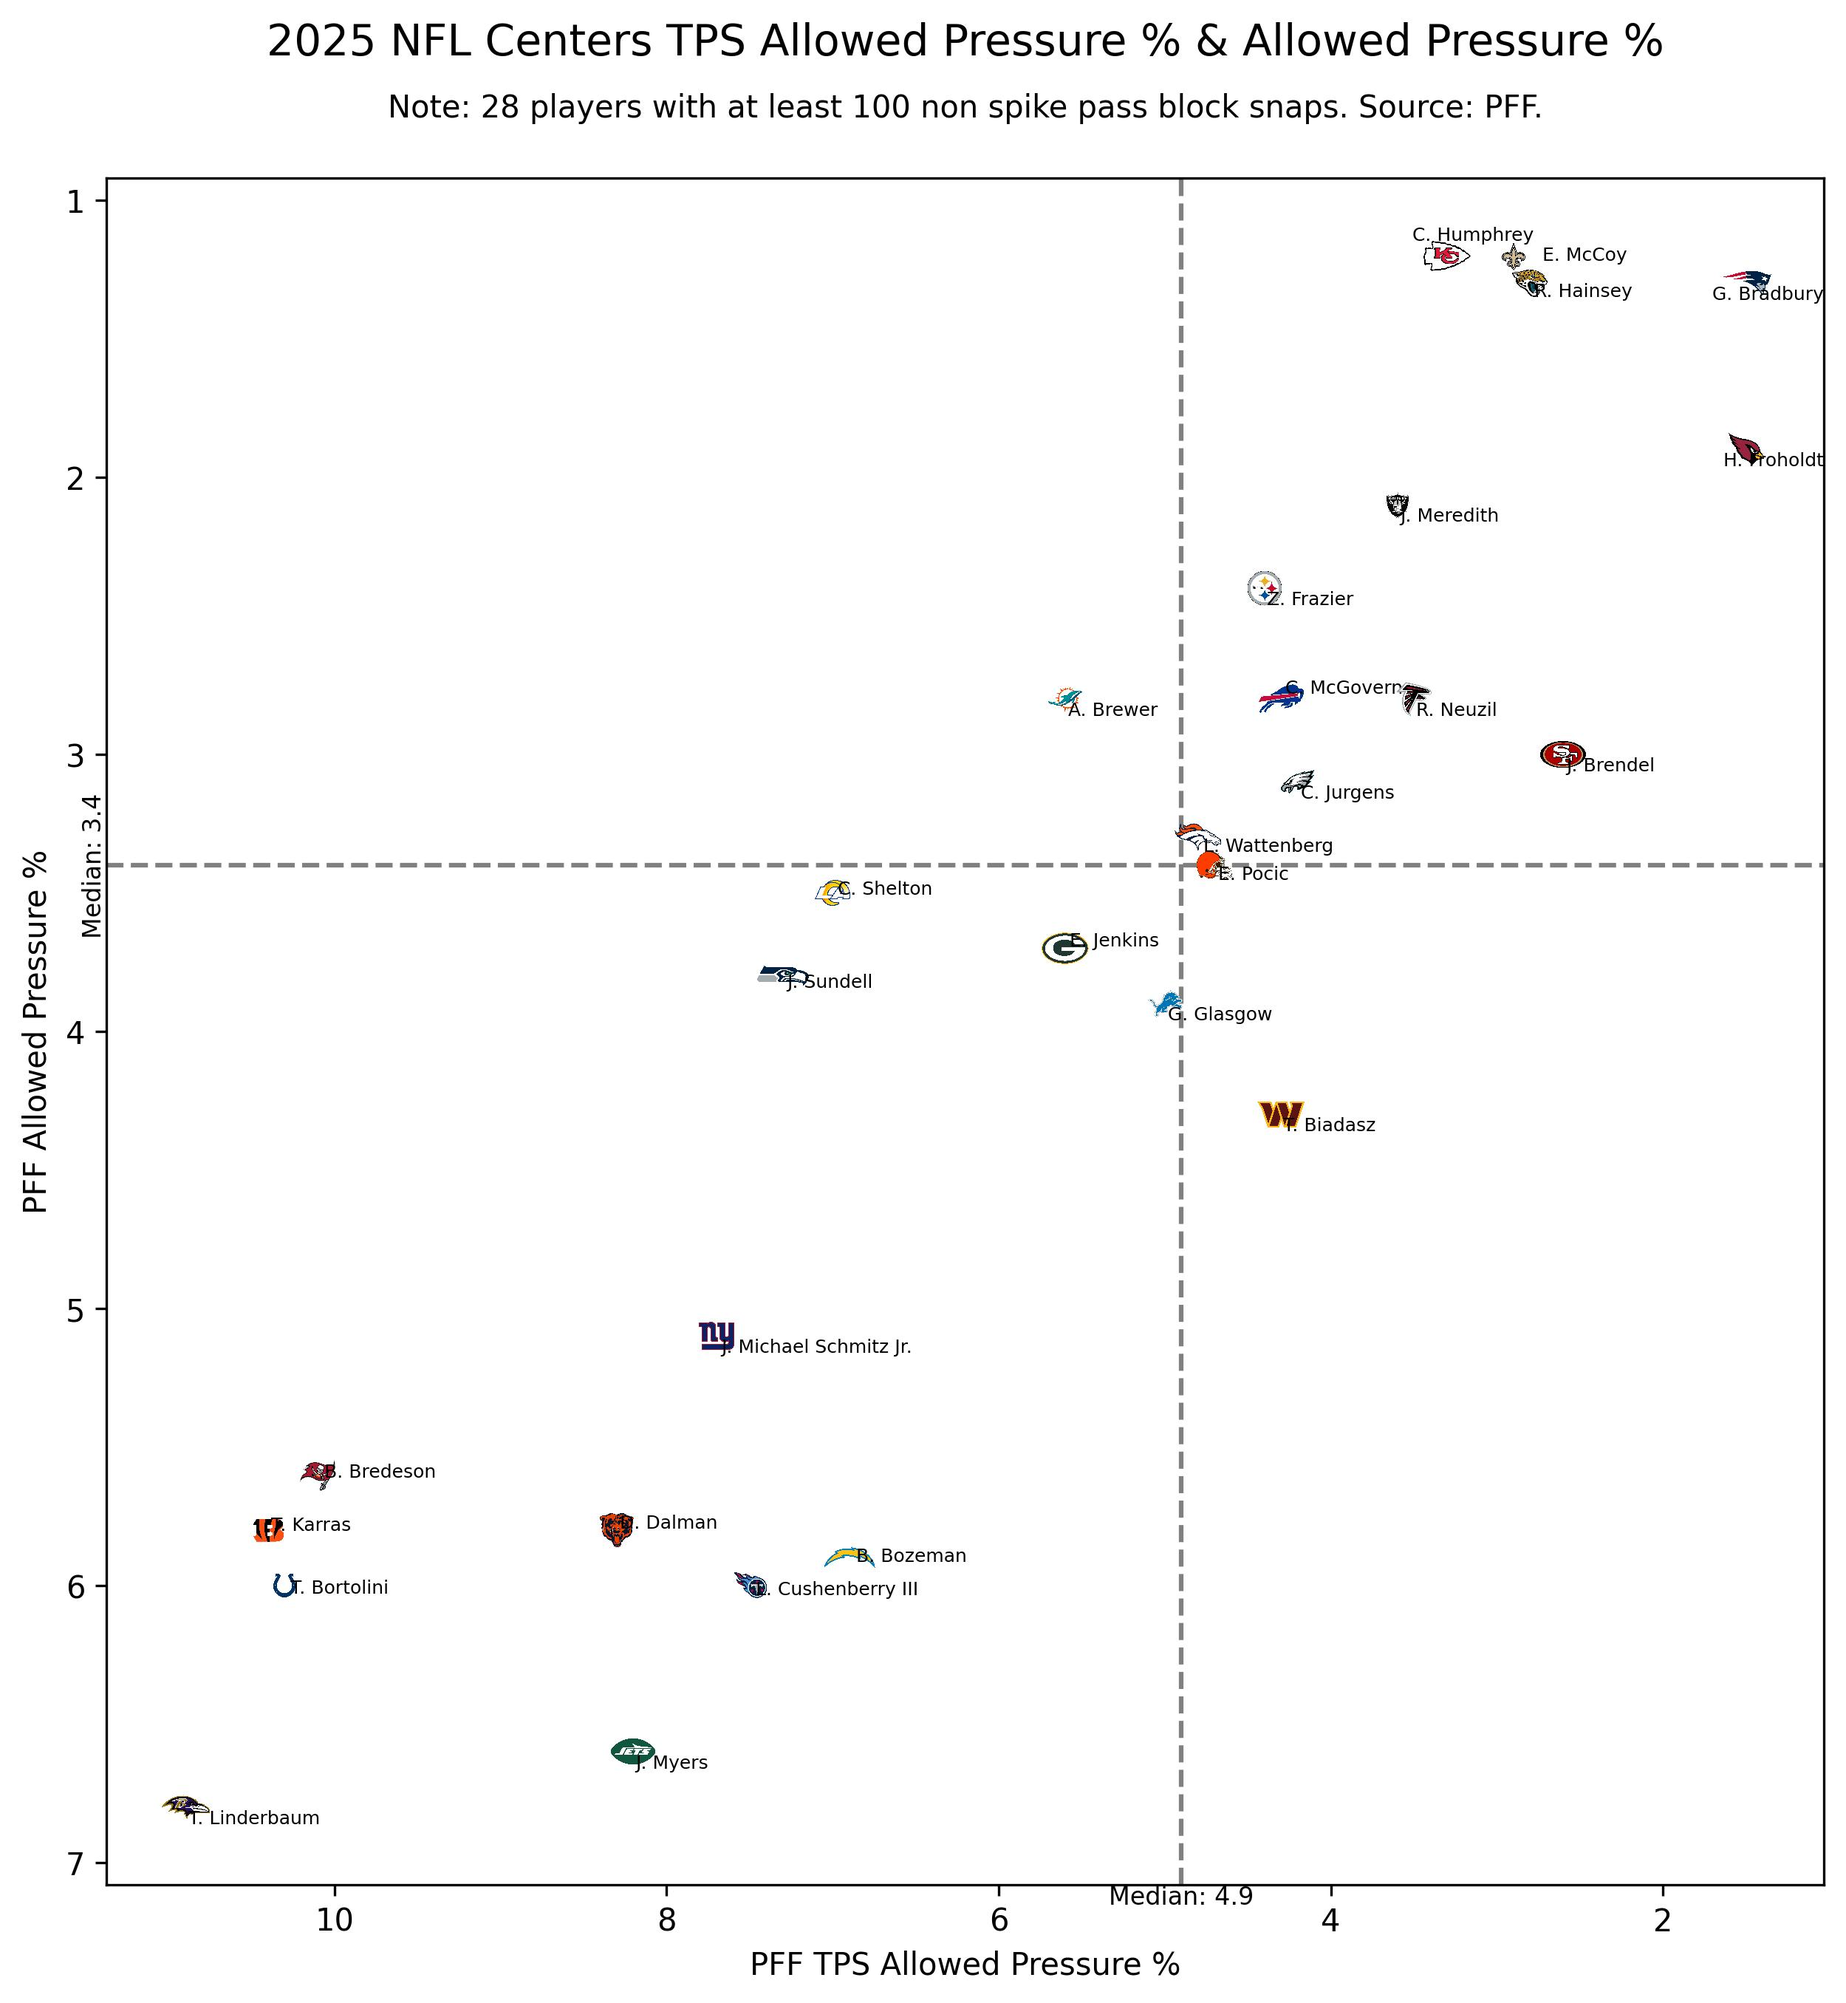
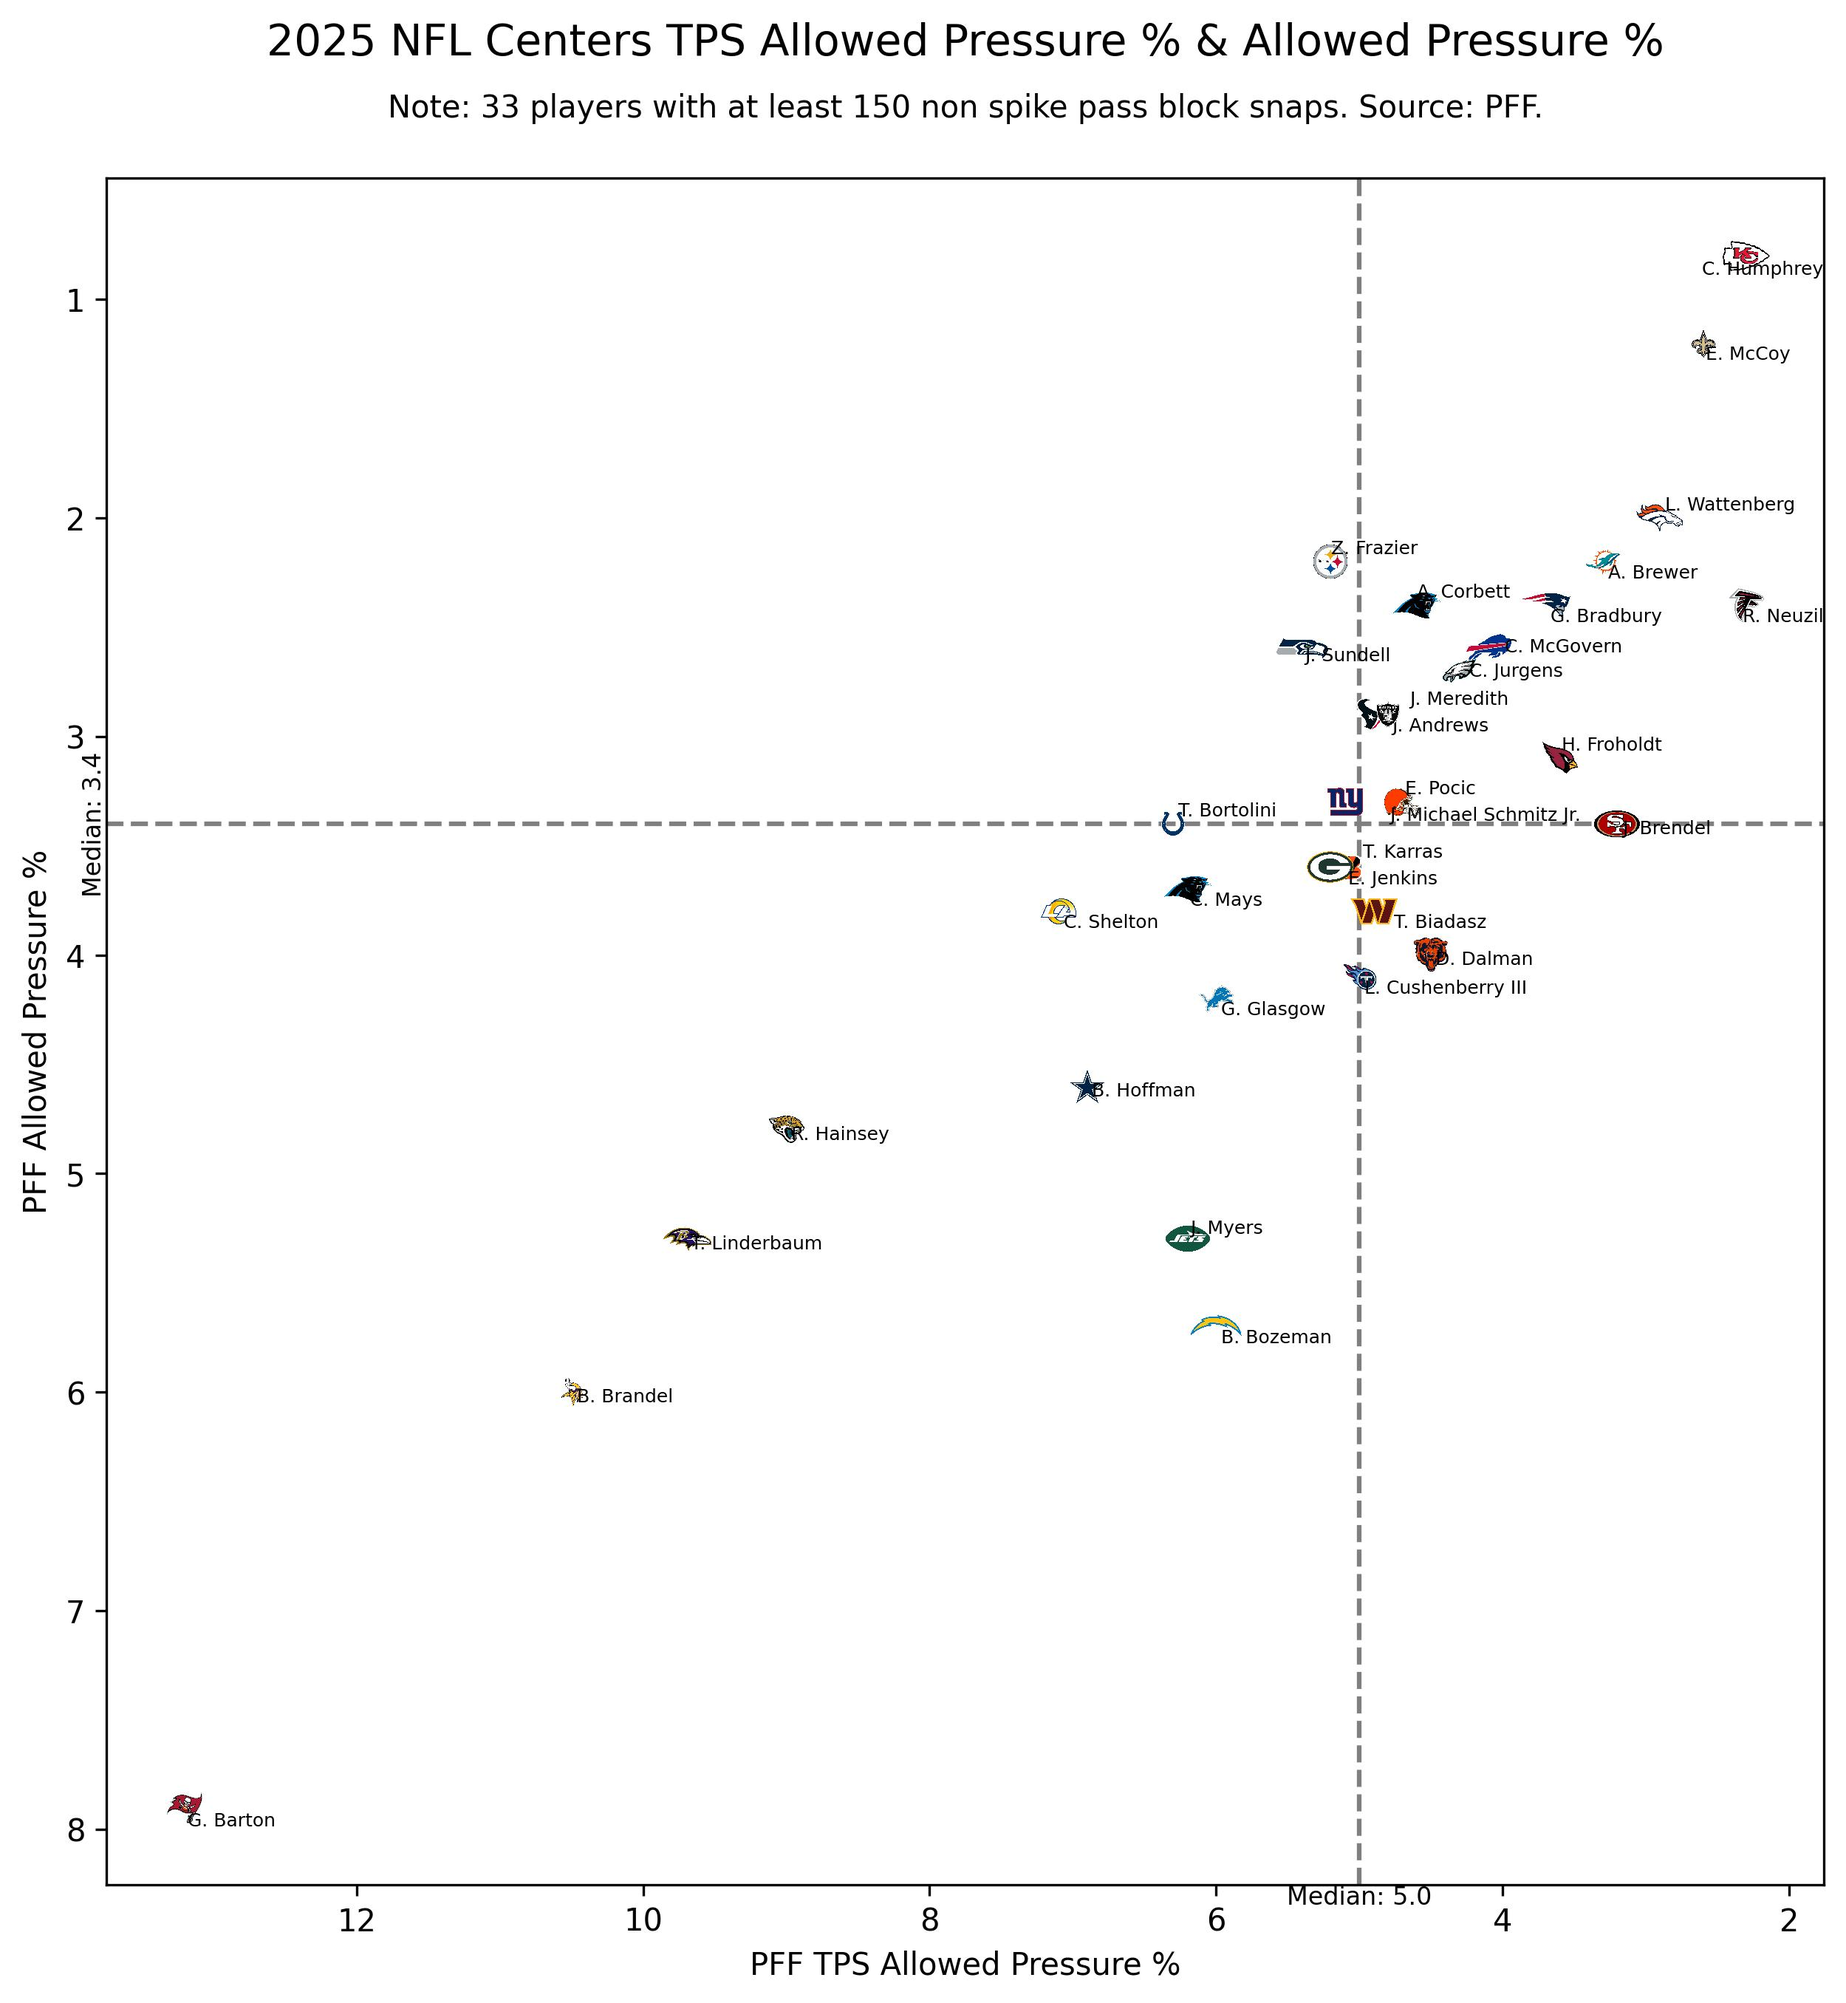
Completed 2025 Week 9.

diff --git a/scatter_plots/pass_block_plot.py b/scatter_plots/pass_block_plot.py
@@ -137,7 +137,7 @@ def plot_pass_block(
 
 if __name__ == "__main__":
     queries = [
-        [2025, "T", 100], [2025, "G", 100], [2025, "C", 100]
+        [2025, "T", 150], [2025, "G", 150], [2025, "C", 150]
     ]
     for query_season, query_position, query_threshold in queries:
         plot_pass_block(

diff --git a/scatter_plots/pass_rush_plot.py b/scatter_plots/pass_rush_plot.py
@@ -138,7 +138,7 @@ if __name__ == "__main__":
     from config import HAVOC_NOTE
 
     queries = [
-        [2025, "DI", 50], [2025, "ED", 50]
+        [2025, "DI", 105], [2025, "ED", 105]
     ]
     for query_season, query_position, query_threshold in queries:
         plot_pass_rush(
